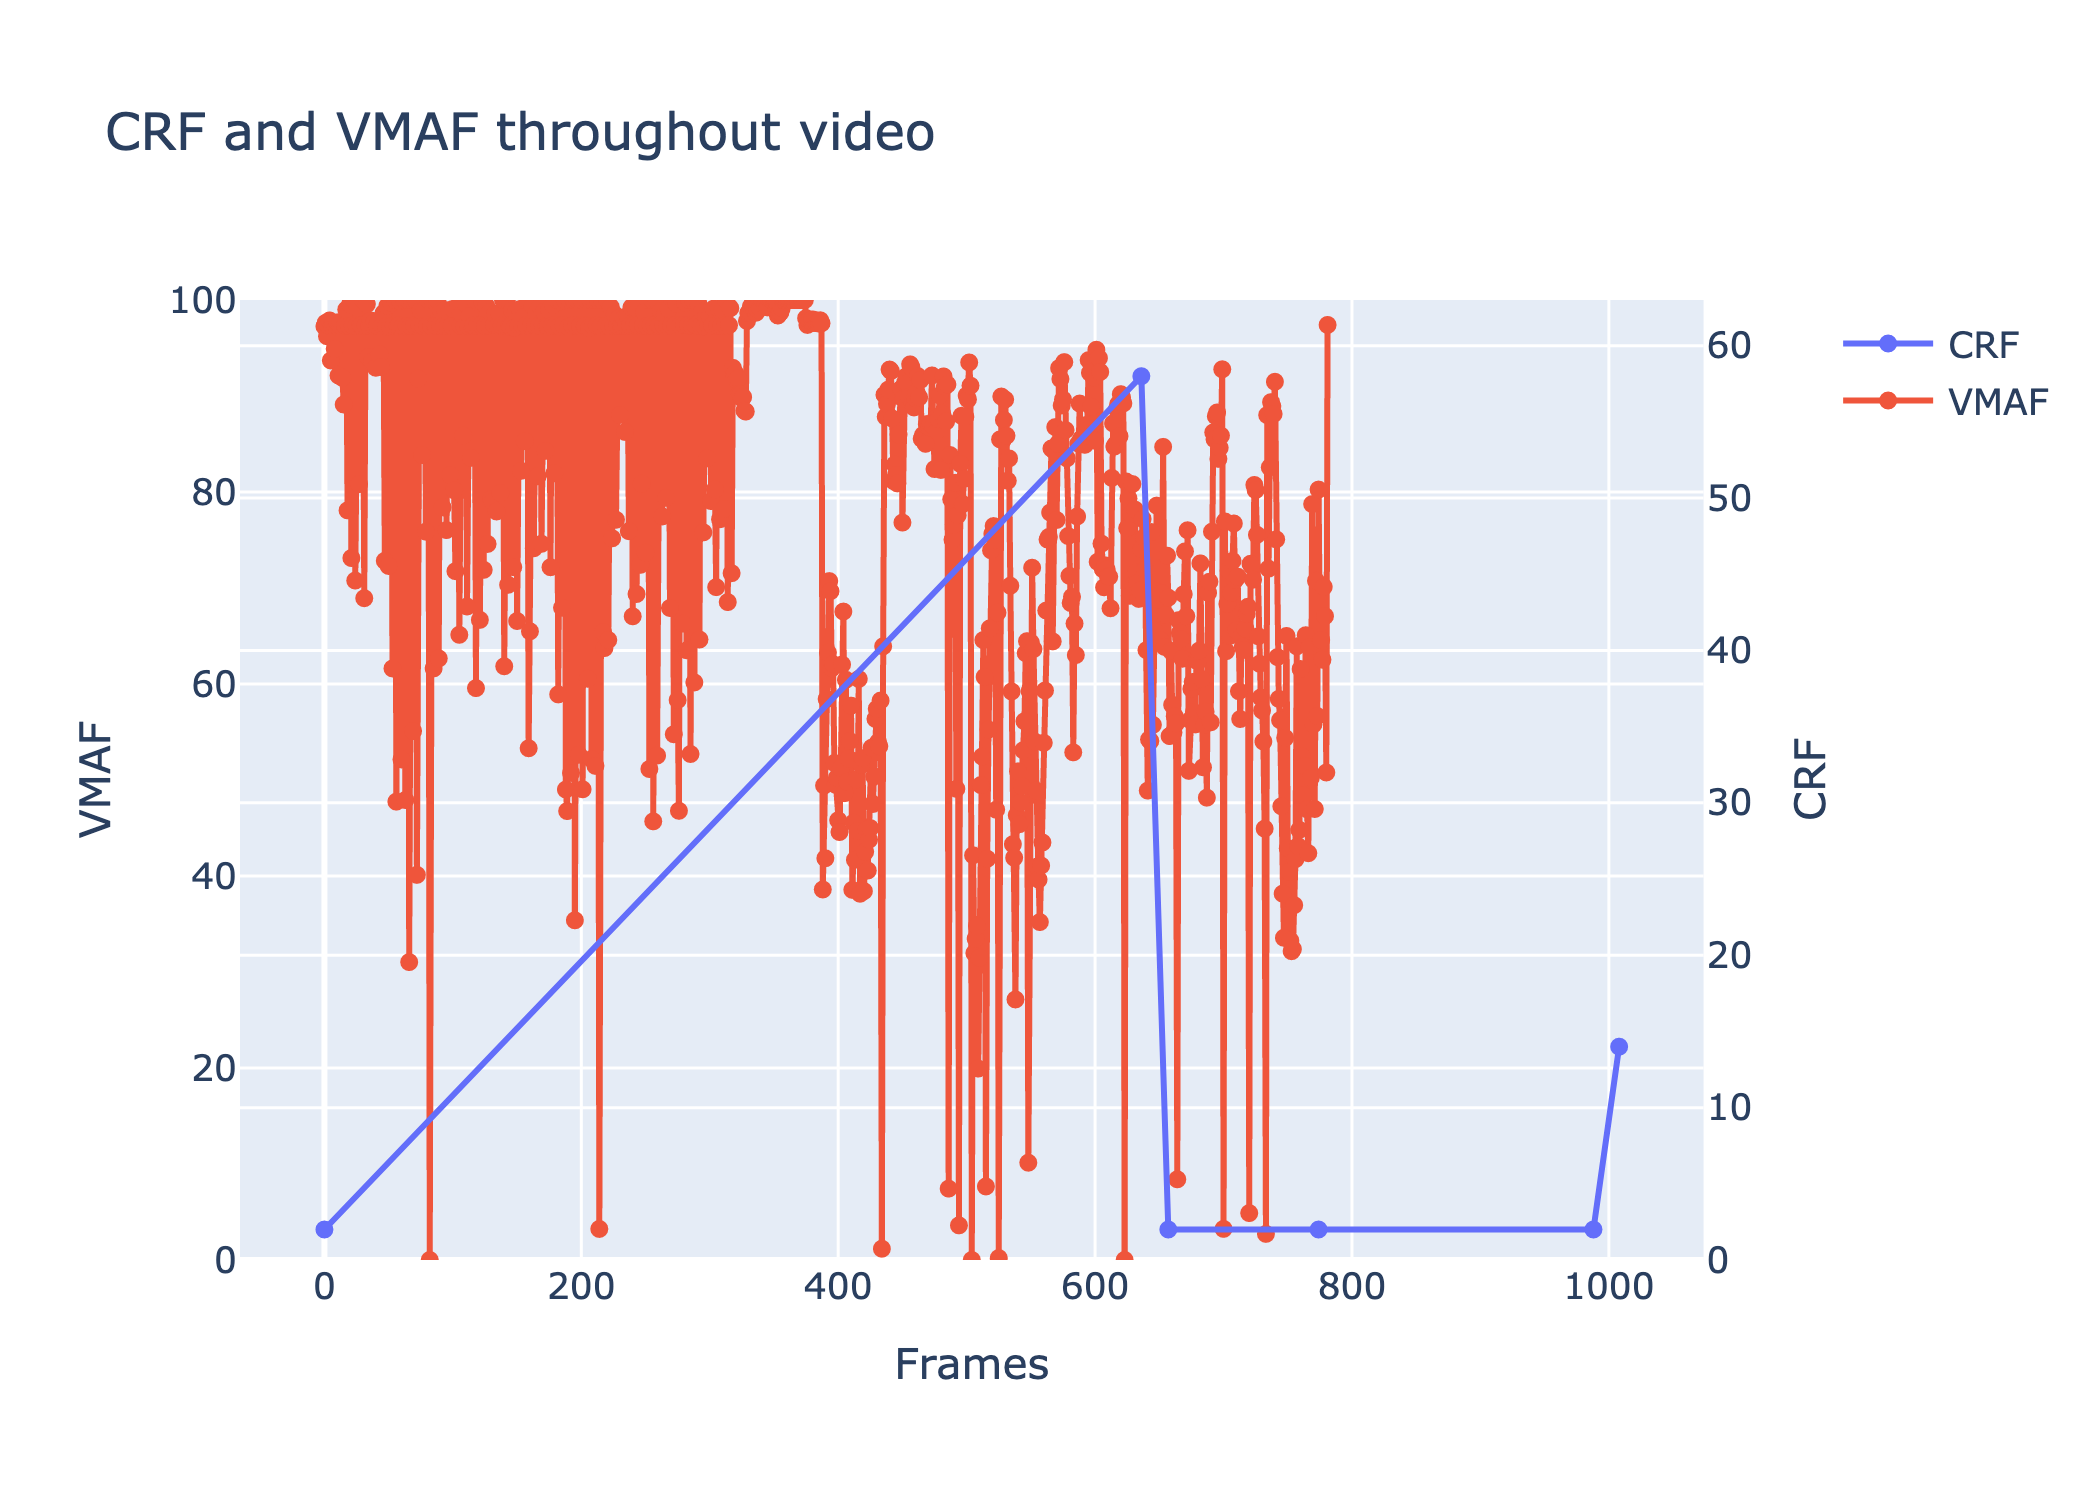
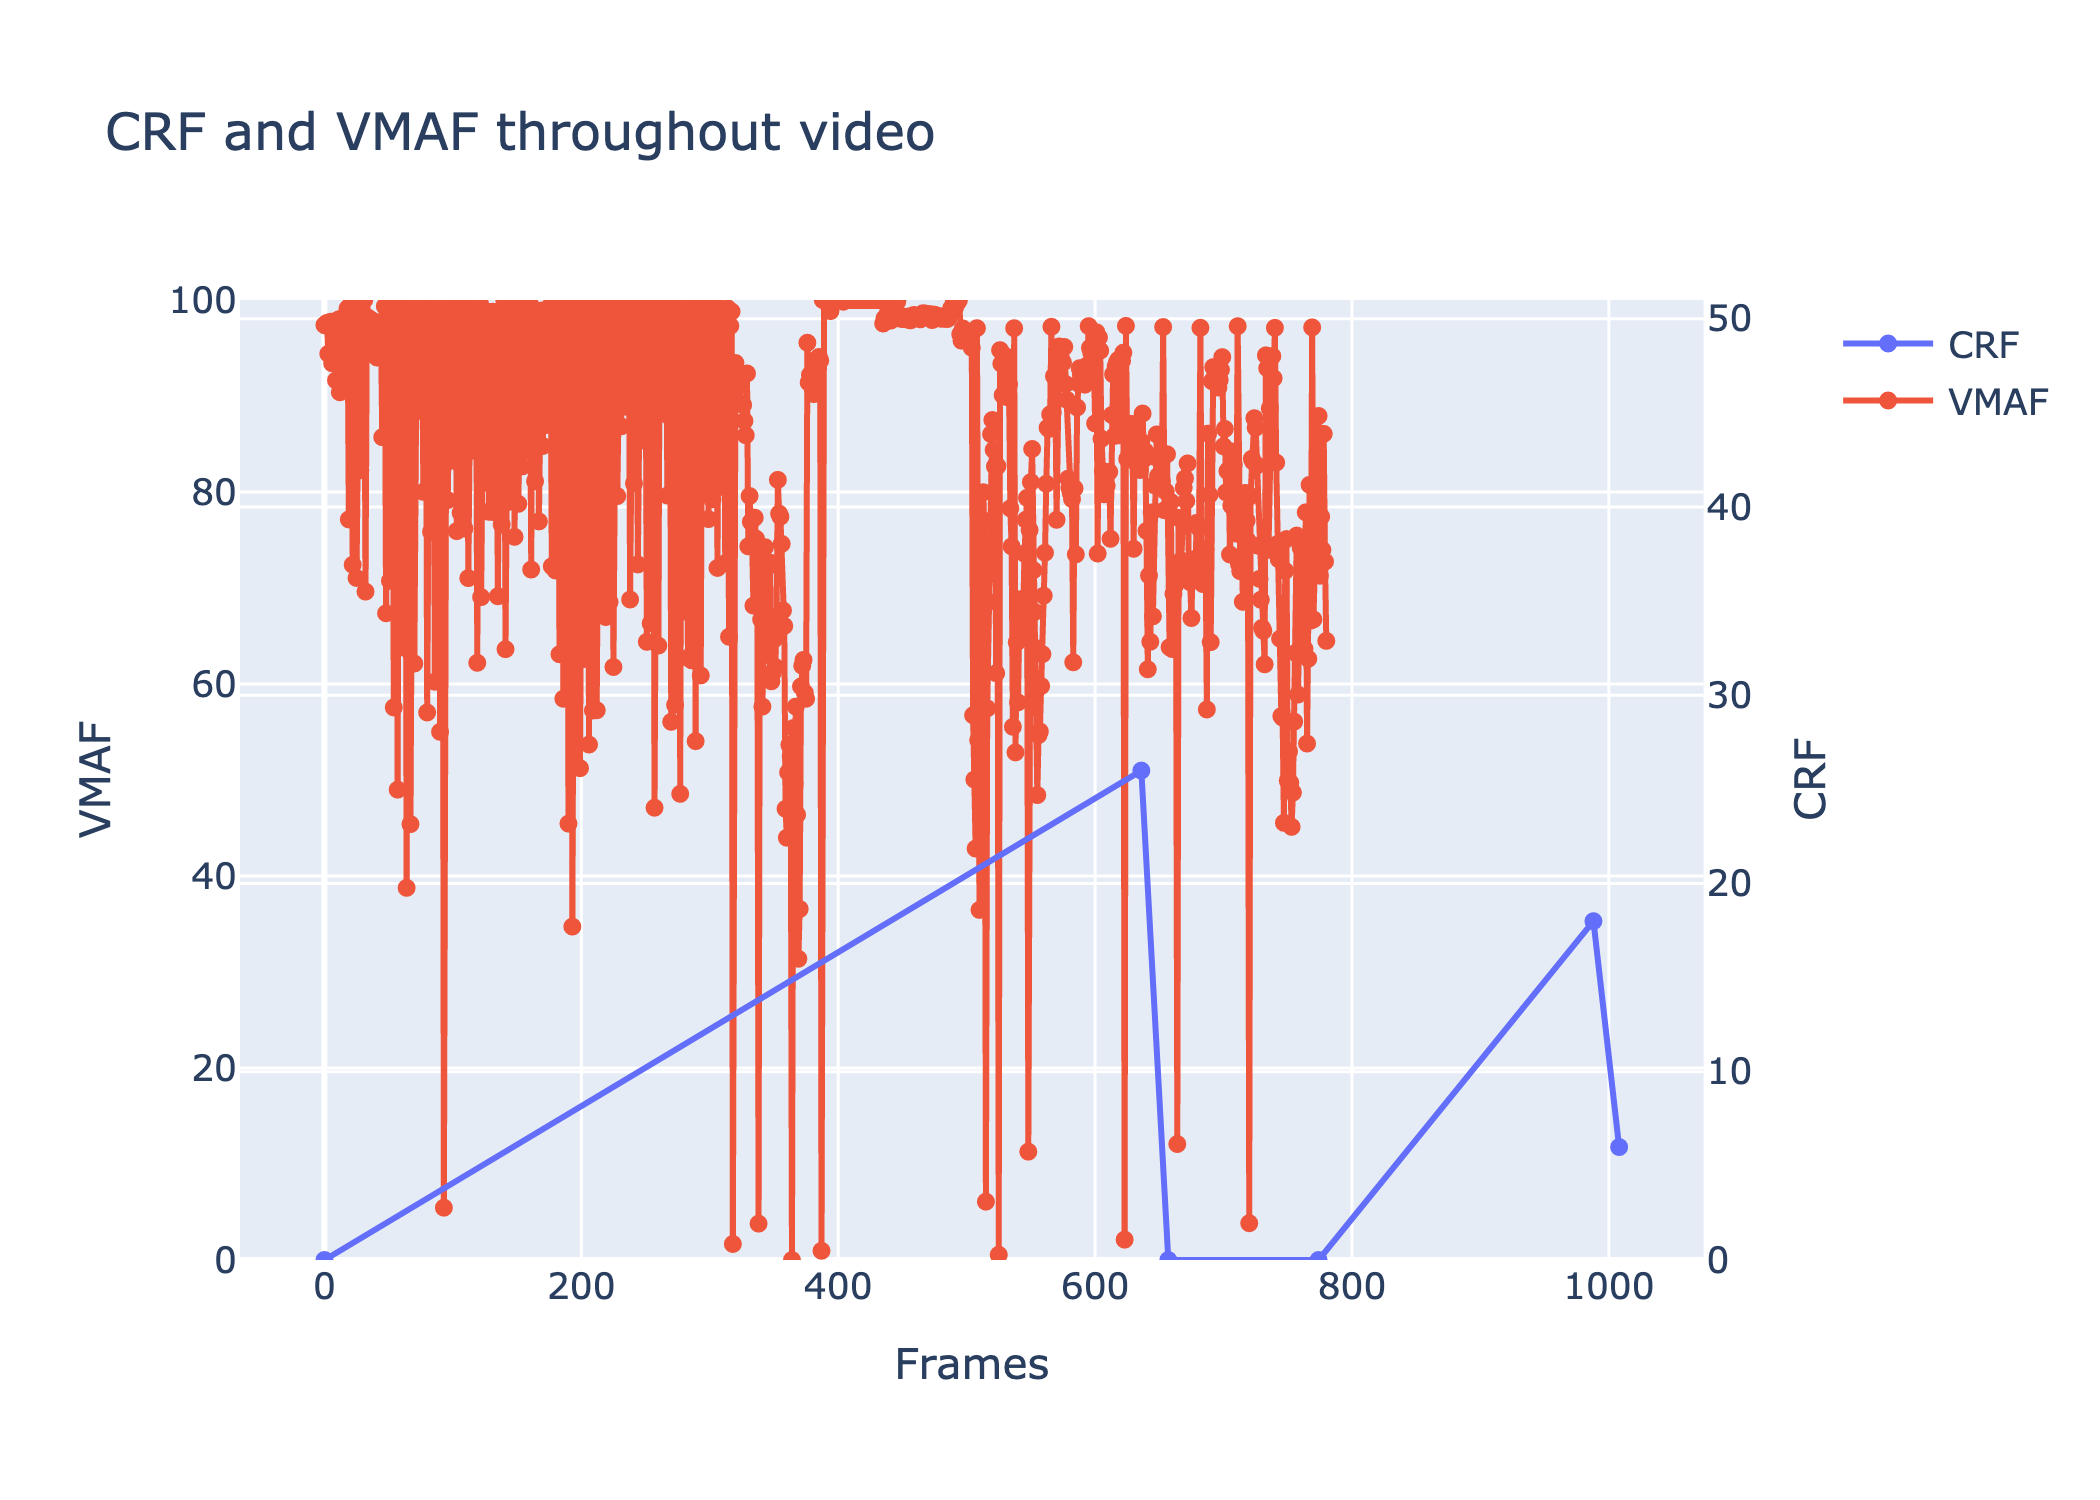
some random changes

diff --git a/src/ffmpeg.py b/src/ffmpeg.py
@@ -209,3 +209,174 @@ def concatenate_video_files(
         os.remove("video_list.txt")
     except FileNotFoundError:
         print("File Not found error: video_list.txt can't be deleted")
+
+
+# def get_video_metadata(...) -> ...:
+#     ffprobe -v quiet -print_format json -show_format -show_streams short.mp4
+# {
+#    "streams": [
+#        {
+#            "index": 0,
+#            "codec_name": "h264",
+#            "codec_long_name": "H.264 / AVC / MPEG-4 AVC / MPEG-4 part 10",
+#            "profile": "High",
+#            "codec_type": "video",
+#            "codec_tag_string": "avc1",
+#            "codec_tag": "0x31637661",
+#            "width": 1816,
+#            "height": 1080,
+#            "coded_width": 1816,
+#            "coded_height": 1080,
+#            "closed_captions": 0,
+#            "film_grain": 0,
+#            "has_b_frames": 1,
+#            "sample_aspect_ratio": "1:1",
+#            "display_aspect_ratio": "227:135",
+#            "pix_fmt": "yuv420p",
+#            "level": 40,
+#            "color_range": "tv",
+#            "color_space": "bt709",
+#            "color_transfer": "bt709",
+#            "color_primaries": "bt709",
+#            "chroma_location": "left",
+#            "field_order": "progressive",
+#            "refs": 1,
+#            "is_avc": "true",
+#            "nal_length_size": "4",
+#            "id": "0x1",
+#            "r_frame_rate": "24000/1001",
+#            "avg_frame_rate": "24000/1001",
+#            "time_base": "1/24000",
+#            "start_pts": 0,
+#            "start_time": "0.000000",
+#            "duration_ts": 721152,
+#            "duration": "30.048000",
+#            "bit_rate": "748023",
+#            "bits_per_raw_sample": "8",
+#            "nb_frames": "751",
+#            "extradata_size": 44,
+#            "disposition": {
+#                "default": 1,
+#                "dub": 0,
+#                "original": 0,
+#                "comment": 0,
+#                "lyrics": 0,
+#                "karaoke": 0,
+#                "forced": 0,
+#                "hearing_impaired": 0,
+#                "visual_impaired": 0,
+#                "clean_effects": 0,
+#                "attached_pic": 0,
+#                "timed_thumbnails": 0,
+#                "non_diegetic": 0,
+#                "captions": 0,
+#                "descriptions": 0,
+#                "metadata": 0,
+#                "dependent": 0,
+#                "still_image": 0
+#            },
+#            "tags": {
+#                "language": "und",
+#                "handler_name": "ISO Media file produced by Google Inc.",
+#                "vendor_id": "[0][0][0][0]"
+#            }
+#        },
+#        {
+#            "index": 1,
+#            "codec_name": "aac",
+#            "codec_long_name": "AAC (Advanced Audio Coding)",
+#            "profile": "LC",
+#            "codec_type": "audio",
+#            "codec_tag_string": "mp4a",
+#            "codec_tag": "0x6134706d",
+#            "sample_fmt": "fltp",
+#            "sample_rate": "44100",
+#            "channels": 2,
+#            "channel_layout": "stereo",
+#            "bits_per_sample": 0,
+#            "initial_padding": 0,
+#            "id": "0x2",
+#            "r_frame_rate": "0/0",
+#            "avg_frame_rate": "0/0",
+#            "time_base": "1/44100",
+#            "start_pts": 0,
+#            "start_time": "0.000000",
+#            "duration_ts": 1323000,
+#            "duration": "30.000000",
+#            "bit_rate": "128036",
+#            "nb_frames": "1349",
+#            "extradata_size": 16,
+#            "disposition": {
+#                "default": 1,
+#                "dub": 0,
+#                "original": 0,
+#                "comment": 0,
+#                "lyrics": 0,
+#                "karaoke": 0,
+#                "forced": 0,
+#                "hearing_impaired": 0,
+#                "visual_impaired": 0,
+#                "clean_effects": 0,
+#                "attached_pic": 0,
+#                "timed_thumbnails": 0,
+#                "non_diegetic": 0,
+#                "captions": 0,
+#                "descriptions": 0,
+#                "metadata": 0,
+#                "dependent": 0,
+#                "still_image": 0
+#            },
+#            "tags": {
+#                "language": "eng",
+#                "handler_name": "ISO Media file produced by Google Inc.",
+#                "vendor_id": "[0][0][0][0]"
+#            }
+#        }
+#    ],
+#    "format": {
+#        "filename": "short.mp4",
+#        "nb_streams": 2,
+#        "nb_programs": 0,
+#        "nb_stream_groups": 0,
+#        "format_name": "mov,mp4,m4a,3gp,3g2,mj2",
+#        "format_long_name": "QuickTime / MOV",
+#        "start_time": "0.000000",
+#        "duration": "30.048000",
+#        "size": "3454463",
+#        "bit_rate": "919718",
+#        "probe_score": 100,
+#        "tags": {
+#            "major_brand": "isom",
+#            "minor_version": "512",
+#            "compatible_brands": "isomiso2avc1mp41",
+#            "encoder": "Lavf61.1.100"
+#        }
+#    }
+# }
+
+
+def visual_comparison_of_video_with_blend_filter(
+    source_video_path: str,
+    encoded_video_path: str,
+    ffmpeg_path: str,
+    output_filename_with_extension: str,
+) -> None:
+    """
+    ffmpeg -i original.mkv -i encoded.mkv \
+    -filter_complex "blend=all_mode=difference" \
+    -c:v libx264 -crf 18 -c:a copy output.mkv
+    """
+    try:
+        _ = subprocess.run(
+            f"{ffmpeg_path} -i {source_video_path} -i {encoded_video_path} -hide_banner -loglevel error "
+            + f'-filter_complex "blend=all_mode=difference" -c:v libx264 -crf 18 -an {output_filename_with_extension}',
+            shell=True,
+            check=True,
+        )
+    except subprocess.CalledProcessError as e:
+        print("ERROR FAILED TO OUTPUT VISUAL COMPARISON (with blend filter)")
+
+
+visual_comparison_of_video_with_blend_filter(
+    "input.mov", "input.mov", "ffmpeg", "TESTTEST.mkv"
+)

diff --git a/src/ffmpeg_heuristics.py b/src/ffmpeg_heuristics.py
@@ -32,15 +32,15 @@ class VMAF:
         print("Running FFMPEG COMMAND for vmaf")
         ffmpeg_command: list[str] = [ffmpeg_path, "-hide_banner"]
 
-        if encode_start_end_time is not None:
-            ffmpeg_command.extend(["-ss", encode_start_end_time[0]])
-            ffmpeg_command.extend(["-to", encode_start_end_time[1]])
-        ffmpeg_command.extend(["-i", encoded_video_path])
-
         if source_start_end_time is not None:
             ffmpeg_command.extend(["-ss", source_start_end_time[0]])
             ffmpeg_command.extend(["-to", source_start_end_time[1]])
         ffmpeg_command.extend(["-i", source_video_path])
+
+        if encode_start_end_time is not None:
+            ffmpeg_command.extend(["-ss", encode_start_end_time[0]])
+            ffmpeg_command.extend(["-to", encode_start_end_time[1]])
+        ffmpeg_command.extend(["-i", encoded_video_path])
 
         # https://www.bannerbear.com/blog/how-to-trim-a-video-using-ffmpeg/#:~:text=You%20can%20trim%20the%20input%20video%20to%20a%20specific%20duration,the%20beginning%20of%20the%20video.&text=In%20the%20command%20above%2C%20%2Dvf,the%20duration%20to%203%20seconds.
         # https://stackoverflow.com/questions/67598772/right-way-to-use-vmaf-with-ffmpeg
@@ -52,21 +52,6 @@ class VMAF:
                 [distorted][reference]libvmaf=n_threads=8" \
         -f null -
         """
-
-        # if encode_start_end_time is not None:
-        #     ffmpeg_command.extend(
-        #         [
-        #             "-vf",
-        #             f'"[0:v]trim=start={encode_start_end_time[0]}:end={encode_start_end_time[1]},setpts=PTS-STARTPTS"',
-        #         ]
-        #     )
-        # if source_start_end_time is not None:
-        #     ffmpeg_command.extend(
-        #         [
-        #             "-vf",
-        #             f'"[1:v]trim=start={source_start_end_time[0]}:end={source_start_end_time[1]},setpts=PTS-STARTPTS"',
-        #         ]
-        #     )
 
         ffmpeg_command.extend(
             [
@@ -95,16 +80,14 @@ class VMAF:
             raise e
 
         # This approach *could* be error prone to changes in FFMPEG?
-        print(
-            # f"{[x for x in ffmpeg_output.splitlines() if "VMAF score" in x][0].split()[-1]=}"
-            f"FFMPEG OUTPUT: {ffmpeg_output}"
-        )
+        # print(
+        #     # f"{[x for x in ffmpeg_output.splitlines() if "VMAF score" in x][0].split()[-1]=}"
+        #     f"FFMPEG OUTPUT: {ffmpeg_output}"
+        # )
         return float(
             [x for x in ffmpeg_output.splitlines() if "VMAF score" in x][0].split()[-1]
         )
 
-    # ffmpeg -i input_small.mkv -i input_small.mkv -lavfi libvmaf="n_threads=4:n_subsample=1:log_fmt=json:log_path=log.json" -f null -
-    # ^^^
     def throughout_video(
         self,
         source_video_path: str,
@@ -118,15 +101,15 @@ class VMAF:
         print("Running FFMPEG-throughout COMMAND for vmaf")
         ffmpeg_command: list[str] = [ffmpeg_path, "-hide_banner"]
 
-        if encode_start_end_time is not None:
-            ffmpeg_command.extend(["-ss", encode_start_end_time[0]])
-            ffmpeg_command.extend(["-to", encode_start_end_time[1]])
-        ffmpeg_command.extend(["-i", encoded_video_path])
-
         if source_start_end_time is not None:
             ffmpeg_command.extend(["-ss", source_start_end_time[0]])
             ffmpeg_command.extend(["-to", source_start_end_time[1]])
         ffmpeg_command.extend(["-i", source_video_path])
+
+        if encode_start_end_time is not None:
+            ffmpeg_command.extend(["-ss", encode_start_end_time[0]])
+            ffmpeg_command.extend(["-to", encode_start_end_time[1]])
+        ffmpeg_command.extend(["-i", encoded_video_path])
 
         ffmpeg_command.extend(
             [

diff --git a/src/target_video_quality.py b/src/target_video_quality.py
@@ -9,6 +9,7 @@ import subprocess
 import scene_detection
 import logging
 from rich.logging import RichHandler
+import time
 
 # from rich import print
 
@@ -47,6 +48,7 @@ def compress_video(
     # extra_ffmpeg_commands: str | None = None,
     # multithreading_threads: int = 1,
     # minimum_scene_length_seconds: int | None = 10,
+    compare_final_video_using_difference: str | None = "Comparison_difference.mp4",
 ):
     """
     This does practically all of the calculations
@@ -54,6 +56,9 @@ def compress_video(
     targeting a specific video heuristic
     This also recombines the video at the end
     """
+
+    total_time_rendering: float = 0
+    total_time_in_heuristic_calculation: float = 0
 
     if output_filename_with_extension is None:
         output_filename_with_extension = (
@@ -112,7 +117,9 @@ def compress_video(
         list(enumerate(video_scenes)),  # doesn't work with just enumerate
         description="[yellow]Processing scenes[/yellow]",
     ):
+        start_time = time.perf_counter()
         video_data_crf_heuristic.append(compress_video_part(i))
+        total_time_rendering += time.perf_counter() - start_time
 
     with rich_console.status("Concatenating temporary video files to final file"):
         ffmpeg.concatenate_video_files(
@@ -202,6 +209,14 @@ def compress_video(
             else:
                 print("NOTICE: INPUT FILE CONTAINED NO AUDIO!! (no audio to transfer)")
 
+    if compare_final_video_using_difference is not None:
+        ffmpeg.visual_comparison_of_video_with_blend_filter(
+            source_video_path=input_filename_with_extension,
+            encoded_video_path=output_filename_with_extension,
+            ffmpeg_path=ffmpeg_path,
+            output_filename_with_extension=compare_final_video_using_difference,
+        )
+
 
 def _compress_video_part(
     input_filename: str,
@@ -275,7 +290,7 @@ def _compress_video_part(
 
             log.debug(
                 f"    FINISHED RUNNING {current_crf} -> {current_crf_heuristic} compared "
-                + "to {heuristic_type.target_score} | {all_heuristic_crf_data}"
+                + f"to {heuristic_type.target_score} | {all_heuristic_crf_data}"
             )
             # _ = input("continue?")
 

diff --git a/src/main_program.py b/src/main_program.py
@@ -17,9 +17,9 @@ def main() -> None:
 
     # video_path: str = "input_small.mkv"
     # video_path: str = "input_test.mkv"
-    # video_path: str = "input.mov"
+    video_path: str = "input.mov"
     # video_path: str = "input_long_5mins.mp4"
-    video_path: str = "short.mp4"
+    # video_path: str = "short.mp4"
     # video_path: str = "test.mkv"
 
     target_video_quality.compress_video(
@@ -28,8 +28,8 @@ def main() -> None:
         # ffmpeg_codec_information=ffmpeg.H264(
         #     preset="ultrafast", faststart=False
         # ),  # 'fast' prototyping
-        ffmpeg_codec_information=ffmpeg.SVTAV1(preset=6),
-        # ffmpeg_codec_information=ffmpeg.H264(preset="slow"),
+        # ffmpeg_codec_information=ffmpeg.SVTAV1(preset=6),
+        ffmpeg_codec_information=ffmpeg.H264(preset="slower"),
         heuristic_type=ffmpeg_heuristics.VMAF(target_score=90),
         # other parameters
         crop_black_bars=False,
